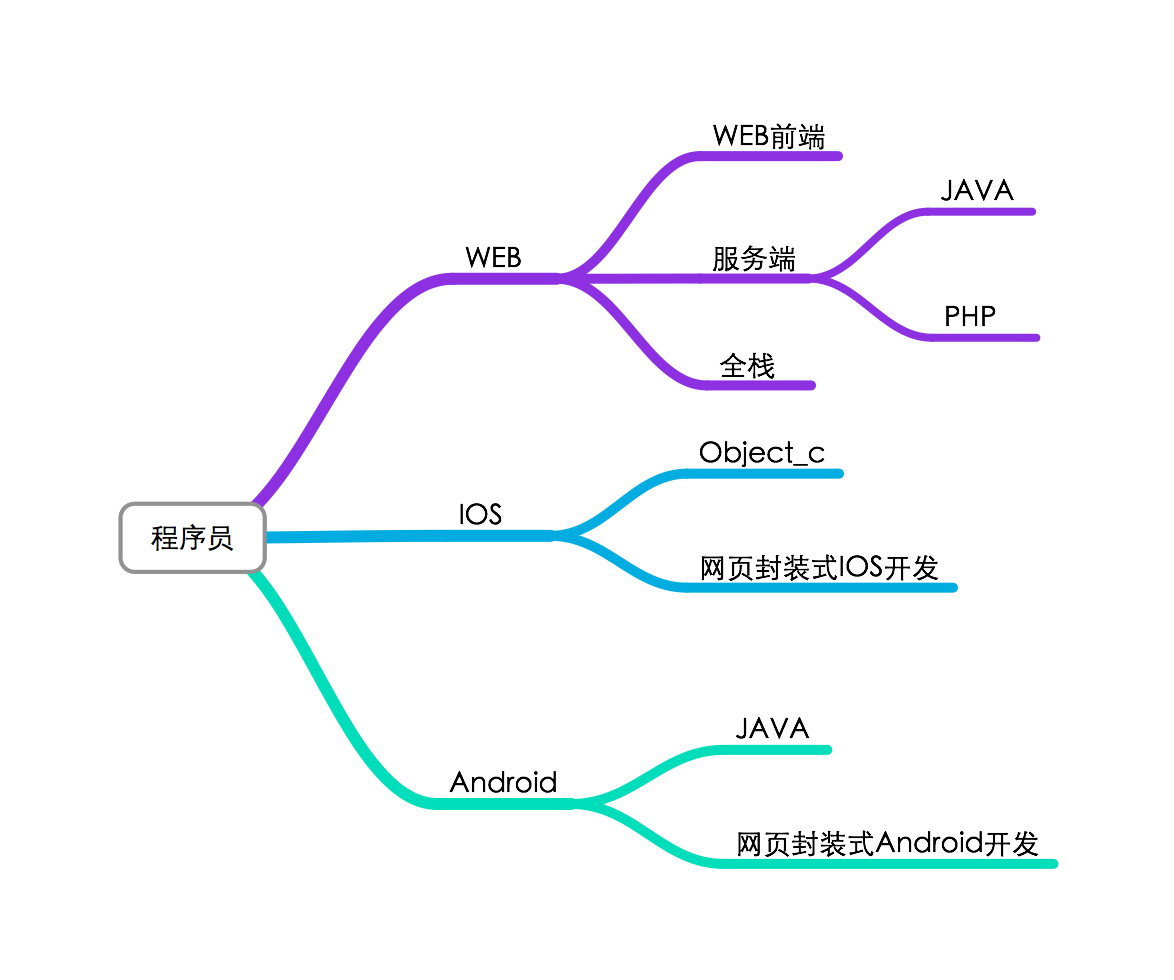
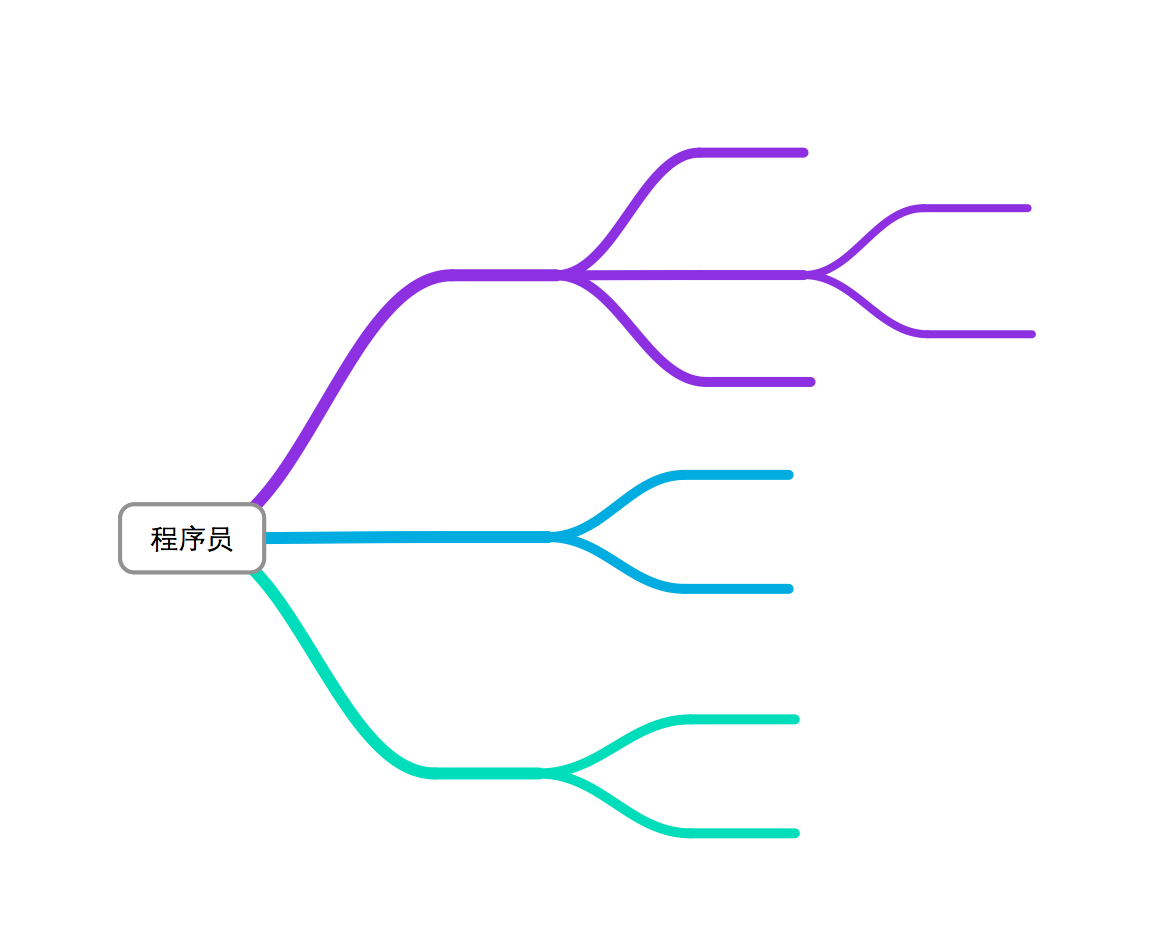
加入用户指引等功能

diff --git a/src/main/webapp/page/testshow.html b/src/main/webapp/page/testshow.html
@@ -14,100 +14,25 @@
 	      <a href=""  ng-click="guide.show=0"><span class="glyphicon glyphicon-remove pull-right"></span></a>
 	  </div>
 	  <div class="panel-body skill-board" >
-	    <div class="col-md-offset-10" style="margin-top: 10px">
-	    	<button class="btn btn-primary " ng-if="panel.isBack" ng-click="goBack()">返回</button>
-	    </div>
-	  
-	    <div class="col-md-offset-4" ng-if="panel.isGuide">
-	    	<h4 style="margin-top: 60px;margin-bottom: 20px">不知道怎么用？</h4>
-	    	<button class="btn btn-outline" ng-click="panel.isGuide=false;panel.body=1;">招聘程序员</button>
-	    </div>
-	    <div class=col-md-offset-3 ng-if="panel.body==1">
-	    	<h4 style="margin-top: 10px;margin-bottom: 30px">你想招聘什么样的开发人员？</h4>
-	    	<button class="btn btn-outline" ng-click="goNext(2);">web开发</button>
-	    	<button class="btn btn-outline" ng-click="goNext(3);">IOS开发</button>
-	    	<button class="btn btn-outline" ng-click="goNext(4);">Android开发</button>
-	    </div>
-	    <div class="col-md-offset-3" ng-if="panel.body==2">
-	       <div style="margin-top: 10px;margin-bottom: 30px">
-	         <h4>web开发分为3类，分别是前端工程师、服务端工程师</h4>
-	         <h4>以及全栈工程师</h4>
-	       </div>
-	    	<button class="btn btn-outline" ng-click="goNext(5);">前端工程师</button>
-	    	<button class="btn btn-outline" ng-click="goNext(6);">服务端工程师</button>
-	    	<button class="btn btn-outline" ng-click="goNext(7);">全栈工程师</button>
-	    </div>
-	    <div class="col-md-offset-3" ng-if="panel.body==3">
-	       <div style="margin-top: 10px;margin-bottom: 30px">
-	         <h4>可使用IOS的原生语言，Object-C、Swift开发</h4>
-	         <h4>也可使用HTML5借助第三方工具封装</h4>
-	       </div>
-	    	<button class="btn btn-outline" ng-click="goNext(8);">原生态IOS开发</button>
-	    	<button class="btn btn-outline" ng-click="goNext(9);">网页封装式IOS开发</button>
-	    </div>
-	    <div class="col-md-offset-3" ng-if="panel.body==4">
-	    <div style="margin-top: 10px;margin-bottom: 30px">
-	         <h4>可使用Android的原生API开发</h4>
-	         <h4>也可使用HTML5借助第三方工具封装</h4>
-	       </div>
-	    	<button class="btn btn-outline" ng-click="goNext(10);">原生态Android开发</button>
-	    	<button class="btn btn-outline" ng-click="goNext(11);">网页封装式Android开发</button>
-	    </div>
-	    <div class="col-md-offset-1 col-md-10" style="margin-top: 10px" ng-if="panel.body==5">
-	    	<p>前端介绍： 最新流行的热门职业。需要具备良好的沟通能力，需要与产品经理、UI设计师、项目经理、最终用户的沟通。
-	    	传统意义上的前端开发需掌握HTML, Css, Javascript, Jquery。而随着移动端网页封装开发及angularjs
-	    	等MVC框架的兴起，前端开发正处于越来越重要的位置。需掌握的基本技能包括html,css,javascript。
-	    	以及一些javascript类库，包括jQuery， Anuglarjs等等。</p>
-	    	<p>知识体系：</p>
-	    	<p>基础：理论基础，html，css，javascript，jquery。</p>
-	    	<p>扩展：html5，css3，bootstrap，angularjs等。</p>
-	    </div>
-	    <div class="col-md-offset-1 col-md-10" style="margin-top: 10px" ng-if="panel.body==6">
-	    	<p>后端介绍:服务端工程师，相对于前端，编写服务接口供前端使用。常用的服务端语言包括, PHP, Java, C#。
-	    	以及目前最新兴起的Node.js。服务端工程师不仅需要掌握语言基础，还必须还必须掌握必要的框架，比如spring，
-	    	thinkphp等等。</p>
-	    	<p>知识体系：</p>
-	    	<p>基础：php，数据库，linux。</p>
-	    	<p>扩展：thinkphp,zend等。</p>
-	    </div>
-	    <div class="col-md-offset-1 col-md-10" style="margin-top: 10px"  ng-if="panel.body==7">
-	    	<p>Full Stack developer。是指掌握多种技能，并能利用多种技能独立完成产品的人。互联网项目，需要用到
-	    	后端开发、前端开发、界面设计、产品设计、数据库、各种移动客户端、三屏兼容、restFul API设计和OAuth等等，
-	    	比较前卫的项目，还会用到Single Page Application、Web Socket、HTML5/CSS3这些技术以及像第
-	    	三方开发像微信公众号微博应用等等。</p>
-	    	<p>知识体系：</p>
-	    	<p>web基础：html，css，javascript，数据库，linux。</p>
-	    	<p>java类：java，spring，hibernate等。</p>
-	    	<p>php类：php，thinkphp，zend等。</p>
-	    </div>
-	    <div class="col-md-offset-1 col-md-10" style="margin-top: 10px"  ng-if="panel.body==8">
-	    	<p>知识体系：</p>
-	    	<p>基础：object-c，swift。</p>
-	    </div>
-	    <div class="col-md-offset-1 col-md-10" style="margin-top: 10px"  ng-if="panel.body==9">
-	    	<p>需要具备良好的沟通能力，需要与产品经理、UI设计师、项目经理、最终用户的沟通。
-	    	传统意义上的前端开发需掌握HTML, Css, Javascript, Jquery。而随着移动端网页封装开发及angularjs
-	    	等MVC框架的兴起，前端开发正处于越来越重要的位置。需掌握的基本技能包括html,css,javascript。
-	    	以及一些javascript类库，包括jQuery， Anuglarjs等等。</p>
-	    	<p>知识体系：</p>
-	    	<p>基础：理论基础，html，css，javascript，jquery。</p>
-	    	<p>扩展：html5，css3，bootstrap，angularjs等。</p>
-	    </div>
-	    <div class="col-md-offset-1 col-md-10" style="margin-top: 10px"  ng-if="panel.body==10">
-	    	<p>知识体系：</p>
-	    	<p>基础：android，linux。</p>
-	    </div>
-	    <div class="col-md-offset-1 col-md-10" style="margin-top: 10px"  ng-if="panel.body==11">
-	    	<p>需要具备良好的沟通能力，需要与产品经理、UI设计师、项目经理、最终用户的沟通。
-	    	传统意义上的前端开发需掌握HTML, Css, Javascript, Jquery。而随着移动端网页封装开发及angularjs
-	    	等MVC框架的兴起，前端开发正处于越来越重要的位置。需掌握的基本技能包括html,css,javascript。
-	    	以及一些javascript类库，包括jQuery， Anuglarjs等等。</p>
-	    	<p>知识体系：</p>
-	    	<p>基础：理论基础，html，css，javascript，jquery。</p>
-	    	<p>扩展：html5，css3，bootstrap，angularjs等。</p>
-	    </div>
-	   
+	      <a  class="blackFont" href="" ng-click="viewGuideModal('webFront')" style=" position: absolute;top:17%;left: 60%"> WEB前端</a>
+	         
+	      <span  tooltip-placement="bottom" tooltip="{{guideTxt.webDevelope}}"  style=" position: absolute;top:28%;left: 40%"> WEB开发</span>
+	      <span  tooltip-placement="bottom" tooltip="{{guideTxt.webBase}}" 
+	         style=" position: absolute;top:28%;left: 60%"> WEB后台</span>
+	      <a href=""  class="blackFont" style=" position: absolute;top:22%;left: 80%" ng-click="viewGuideModal('java')"> JAVA </a>
+	      <a href="" class="blackFont" style=" position: absolute;top:34%;left: 80%"  ng-click="viewGuideModal('php')"> PHP </a>
+	      <a href="" class="blackFont" style=" position: absolute;top:39%;left: 60%" ng-click="viewGuideModal('allStack')"> 全栈程序员 </a>
+	      <span  tooltip-placement="top" tooltip="{{guideTxt.IOS}}" 
+	        style=" position: absolute;top:53%;left: 40%"> IOS开发</span>
+	      <a href="" class="blackFont" style=" position: absolute;top:48%;left: 60%" ng-click="viewGuideModal('object_c')"> Object_C</a>
+		  <a href="" class="blackFont" style=" position: absolute;top:59%;left: 60%"  ng-click="viewGuideModal('webFront')"> 网页式IOS开发</a>	  
+		  
+		  <span   tooltip-placement="top" tooltip="{{guideTxt.Android}}"  
+		    style=" position: absolute;top:76%;left: 40%"> Android开发</span>	  	
+		  <a href="" class="blackFont" style=" position: absolute;top:71%;left: 60%" ng-click="viewGuideModal('android')"> 原生Android开发</a>	
+		  <a href="" class="blackFont" style=" position: absolute;top:83%;left: 60%" ng-click="viewGuideModal('webFront')"> 网页式Android开发</a>		
 	  </div>
+	  
 	</div>
   </div>
   

diff --git a/src/main/webapp/resource/js/TestPage.js b/src/main/webapp/resource/js/TestPage.js
@@ -1,7 +1,7 @@
 /**
  * Created by liuzheng on 2014/7/11.
  */
-OJApp.controller('TestPage',function($scope, $http, Data) {
+OJApp.controller('TestPage',function($scope, $http, Data,$modal) {
     $scope.url = '#/test';
     $scope.active = 1;
     $scope.template = 'page/testshow.html';
@@ -19,7 +19,49 @@ OJApp.controller('TestPage',function($scope, $http, Data) {
     $scope.test={};
     $scope.test.isNewTest=false;
     $scope.guide={};
-    $scope.guide.show=0;
+    $scope.guide.show=1; //测试
+    
+    $scope.guideTxt ={};
+    $scope.guideTxt.webDevelope="web开发即网站开发，从技术上分为前端和后端，前端为展示给用户的界面，后端为业务逻辑，用于处理业务动作。前端的技术包括HTML，" +
+    		"Javascript等；后端需掌握包括Java，Php，数据库，Linux等技术";
+    $scope.guideTxt.webBase ="web后台功能主要是响应用户的访问，为用户提供网络服务，一般使用Java、PHP等技术。此外，还必须还必须掌握必要的框架，比如spring，"+
+	    	"thinkphp等等。为了操作数据库还需掌握数据库知识，如果没有专业的运维人员，还需掌握Linux等技术";
+    $scope.guideTxt.IOS = "这里的IOS开发指APP前台开发，后台开发与网站后台开发相同。IOS开发一般采用Object_C,苹果公司现已推出了最新的开发语言Swift，" +
+    		"同时，目前也流行采取开发网页的形式，然后通过第三方工具将网页封装成IOS应用，因为网页同时也可以封装成Android应用，所以这种方式正越来越流行";
+    $scope.guideTxt.Android = "Android开发一般采用java语言，采用google提供的Android API。但目前也流行采取开发网页的形式，然后通过第三方工具将网页封装成Android应用，" +
+    		"因为网页同时也可以封装成IOS应用，所以这种方式正越来越流行"
+    
+    $scope.guideArray={
+    		"webFront":"前端介绍： 最新流行的热门职业。需要具备良好的沟通能力，需要与产品经理、UI设计师、项目经理、最终用户的沟通。"
+	    	+"传统意义上的前端开发需掌握HTML, Css, Javascript, Jquery。而随着移动端网页封装开发及angularjs"
+	    	+"等MVC框架的兴起，前端开发正处于越来越重要的位置。需掌握的基本技能包括html,css,javascript。"
+	    	+"以及一些javascript类库，包括jQuery， Anuglarjs等等。",
+	    	"java":"java服务端工程师需掌握java，spring,Linux,数据库等技能",
+	    	"php":"php服务端工程师不仅需掌握PHP语言，还必须掌握thinkphp，linux，数据库等知识",
+	    	"allStack":"Full Stack developer：是指掌握多种技能，并能利用多种技能独立完成产品的人。互联网项目，需要用到后端开发、前端开发、界面设计、" +
+	    	"产品设计、数据库、各种移动客户端、三屏兼容、restFul API设计和OAuth等等，比较前卫的项目，还会用到Single Page Application、Web Socket、" +
+	    	"HTML5/CSS3这些技术以及像第三方开发像微信公众号微博应用等等",
+	    	"object_c":"IOS的原生开发语言",
+	    	"android":"Android的原生开发语言，主要使用google的API"
+    }
+    
+    
+    $scope.viewGuideModal = function(data){
+    	console.log("view guide modal.........",data);
+    	 var modalInstance = $modal.open({
+		      templateUrl: 'page/guideModal.html',
+		      controller: 'guideModalCtrl',
+		      resolve: {
+		          params:function(){
+		        	  var obj ={};
+		        	  obj.title="技能介绍";
+		        	  obj.content = $scope.guideArray[data];
+		        	  obj.data =data;
+		        	  return obj;
+		          }
+		      }
+		     })
+    }
     
     $scope.goNext = function (id) {	
     	$scope.panel.trace.push($scope.panel.body);	

diff --git a/src/main/webapp/page/guideModal.html b/src/main/webapp/page/guideModal.html
@@ -1,0 +1,21 @@
+<link rel="stylesheet" type="text/css" href="resource/css/mymodalcontent.css"/>
+
+<!-- 接受read， -->
+
+<div class="modal-header" style="background-color: #374652">
+<button type="button" class="close"  ng-click="cancel()"><span aria-hidden="true" style="color:#1abc9c">&times;</span><span class="sr-only">Close</span></button>
+            <span class="modal-title" style="font-size:16px;color:#1abc9c">{{title}}</span>
+            
+        </div>
+
+        <div class="modal-body">
+			<div style="font-size: 18px;line-height: 1.8" ng-bind="content"></div>
+			<button class="btn btn-outline" ng-click="genQuiz()" style="margin-top: 20px" >自动生成试题</button>
+			<div style="clear:both"></div>
+        </div>
+
+        <div class="modal-footer" >
+            <button class="btn btn-primary" ng-if="operation=='edit'" ng-click="saveQustion()">保存</button>
+            <button class="btn btn-warning" ng-click="cancel()">取消</button>
+        </div>
+        

diff --git a/src/main/webapp/page/testlist.html b/src/main/webapp/page/testlist.html
@@ -14,7 +14,7 @@
 		   <a class="pull-right" href="" ng-if="contain.show==1" ng-click="contain.show=2">收起<span class="glyphicon glyphicon-chevron-up pull-right"  ></span></a>	
 		</div>
 			
-		<div ng-if="contain.show==1">
+		<div ng-if="contain.show==1" style="height: 600px;overflow-y: scroll;overflow-x:hidden">
 			<div class="row" style="padding-top:15px;padding-bottom:15px">
 				<div class="col-md-1"></div>
 				<div class="col-md-5">试题内容</div>
@@ -23,7 +23,7 @@
 				<!-- <div class="col-md-1">分数</div> -->
 				<div class="col-md-3">修改/删除/上移/下移</div>
 			</div>
-			<div class="question-list"  ng-repeat="q in qs">
+			<div class="question-list"  ng-repeat="q in qs" >
 				    <div class="col-md-1">
 				    	
 				    	<span ng-bind="'Q'+($index+1)"></span>

diff --git a/src/main/webapp/resource/css/testshow.css b/src/main/webapp/resource/css/testshow.css
@@ -3,5 +3,25 @@
   	 height: 700px; 
   	 margin-top: 0px;	
   	 background-size:100% 100%;	
-  	 color:#fff;
+}
+
+.tooltip-inner{
+	 background-color:#fff !important;
+	 color:#000;
+	 border: 1px solid #000;
+	 width: auto！important;
+	
+}
+
+.tooltip.bottom .tooltip-arrow{
+	 border-bottom-color: #000  !important;
+}
+.tooltip.top .tooltip-arrow{
+	 border-top-color: #000  !important;
+}
+.tooltip.left .tooltip-arrow{
+	 border-left-color: #000  !important;
+}
+.tooltip.right .tooltip-arrow   {
+	 border-right-color: #000  !important;
 }

diff --git a/src/main/webapp/page/myModalContent.html b/src/main/webapp/page/myModalContent.html
@@ -17,7 +17,7 @@
 		  
 		    
 
-			<div class="options list col-md-12 col-sm-12  col-xs-12" >
+			<div class="options list col-md-12 col-sm-12  col-xs-12" ng-if="type ==1 " >
 		       	  <label  customcheckbox option={{option}} class='optionlabel checkbox'  ng-repeat="option in question.answer" operation={{operation}} 
 		       	  	index={{$index}} rightanswer={{question.rightanswer}} useranswer={{question.useranswer}} report={{report}}>
 		       	  	<span class='icon'></span><span class='icon-to-fade'></span>

diff --git a/src/main/webapp/page/questiondetail.html b/src/main/webapp/page/questiondetail.html
@@ -2,7 +2,7 @@
 							<textarea simditor minheight="60px"  operation="view"
 							ng-model="q.context"></textarea>
 					</div>
-					<div class="options col-md-offset-1 list col-md-10 col-sm-10  col-xs-10">
+					<div class="options col-md-offset-1 list col-md-10 col-sm-10  col-xs-10" ng-if="q.type == 1">
 						<label customcheckbox option={{option}}
 							class='optionlabel checkbox' ng-repeat="option in q.answer"
 							operation="view" index={{$index}} rightanswer={{q.rightanswer}}

diff --git a/src/main/webapp/resource/js/controller/guideModalCtrl.js b/src/main/webapp/resource/js/controller/guideModalCtrl.js
@@ -1,0 +1,18 @@
+OJApp.controller('guideModalCtrl',function ($scope,$http,$modalInstance,Data,params) {
+	//绑定变量到服务	
+	$scope.title = params.title;
+	$scope.content = params.content;
+	$scope.data = params.data;
+	
+	
+	
+	$scope.genQuiz = function(){
+		
+	}
+	
+	$scope.cancel = function(){
+		$modalInstance.dismiss('cancel');
+	}
+	
+	
+});

diff --git a/src/main/webapp/resource/js/TestPageTid.js b/src/main/webapp/resource/js/TestPageTid.js
@@ -188,6 +188,7 @@ OJApp.controller('TestPageTid',function($scope, $routeParams, $http,$modal, Data
 		        	  obj.operation = params.operation;
 		        	  obj.title=params.title;
 		        	  obj.question = question;
+		        	  obj.type = q.type;
 		        	  return obj;
 		          }
 		      }

diff --git a/src/main/webapp/page/index.html b/src/main/webapp/page/index.html
@@ -109,6 +109,7 @@
 <script src="resource/js/controller/adminController.js"></script>
 <script src="resource/js/controller/contactController.js"></script>
 <script src="resource/js/controller/proModalInstanceCtrl.js"></script>
+<script src="resource/js/controller/guideModalCtrl.js"></script>
 
 
 

diff --git a/src/main/webapp/resource/js/controller/ModalInstanceCtrl.js b/src/main/webapp/resource/js/controller/ModalInstanceCtrl.js
@@ -1,6 +1,7 @@
 OJApp.controller('ModalInstanceCtrl',function ($scope,$http,$modalInstance,Data,params) {
 	//绑定变量到服务
 	
+	$scope.type = params.type;
 	$scope.question = params.question;
 	$scope.operation = params.operation;
 	$scope.title = params.title;

diff --git a/src/main/webapp/resource/css/oj.css b/src/main/webapp/resource/css/oj.css
@@ -266,6 +266,7 @@ ul.navbar-nav li a:active{
 	/*height: 40px;*/
 	padding-top: 15px;
 	padding-bottom: 15px;
+	
 }
 
 .big-caret{
